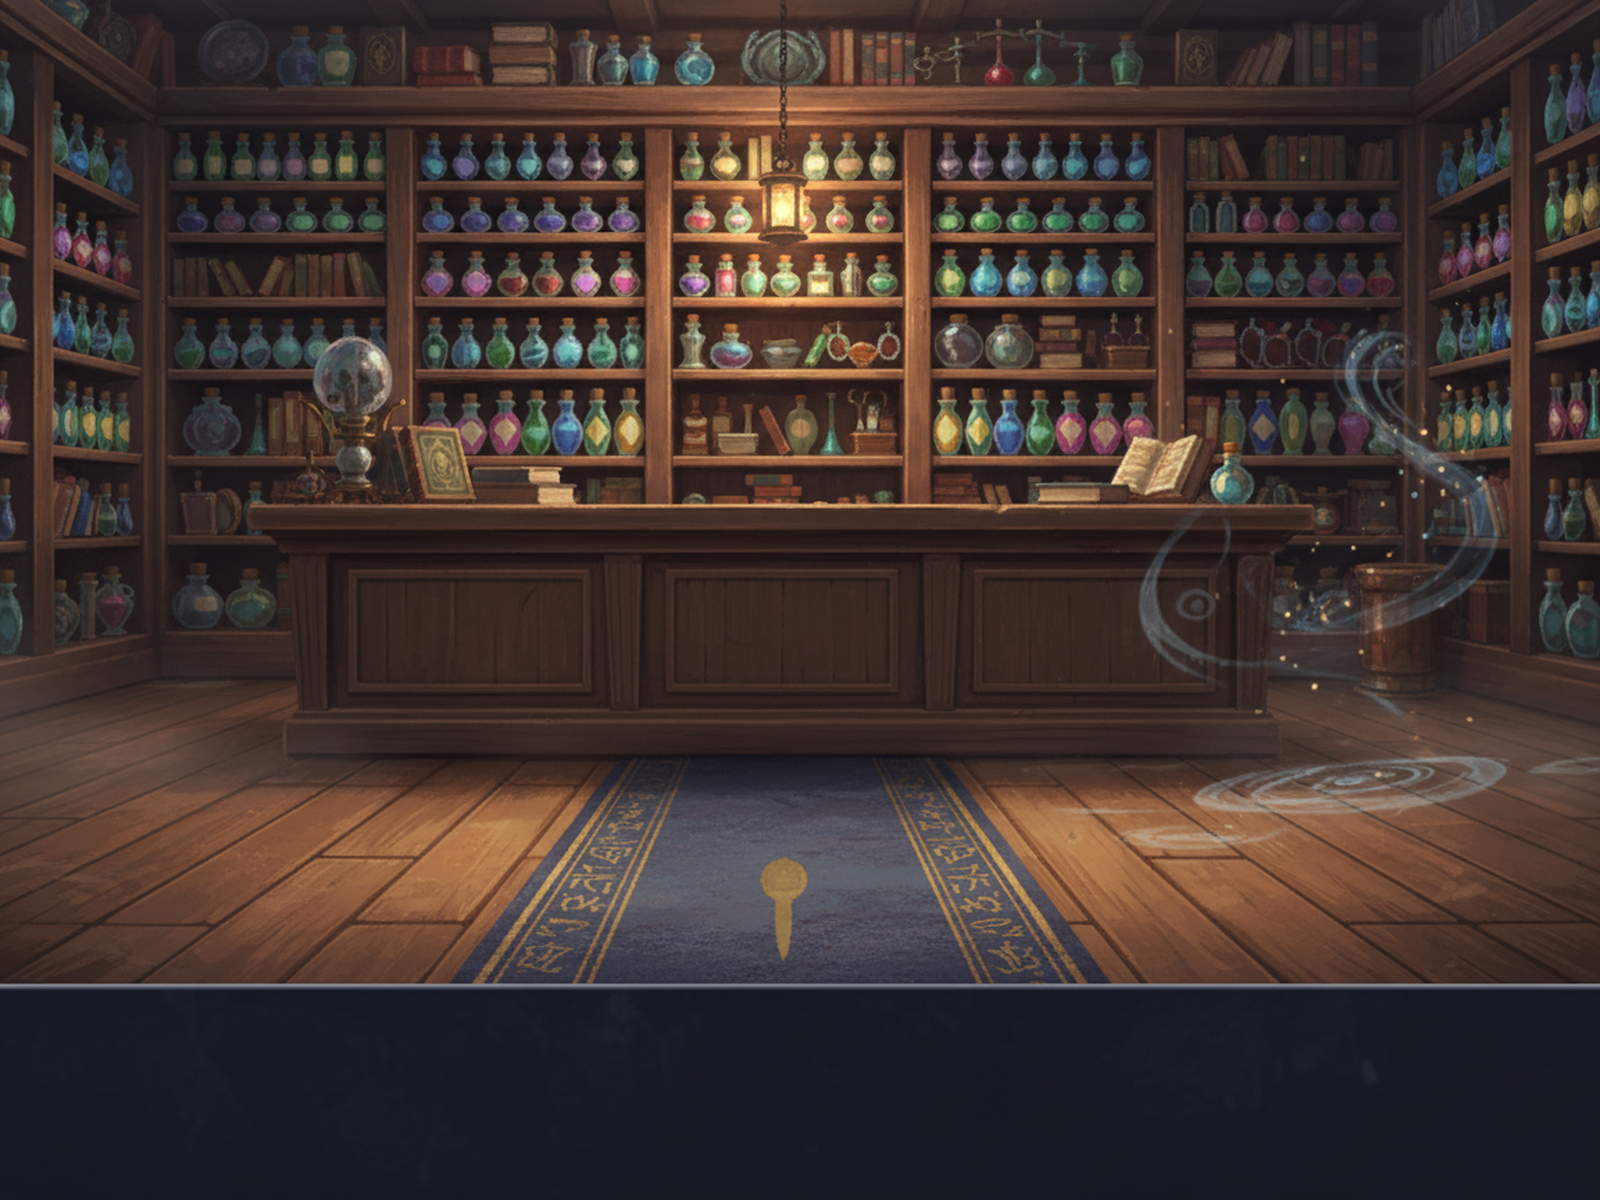
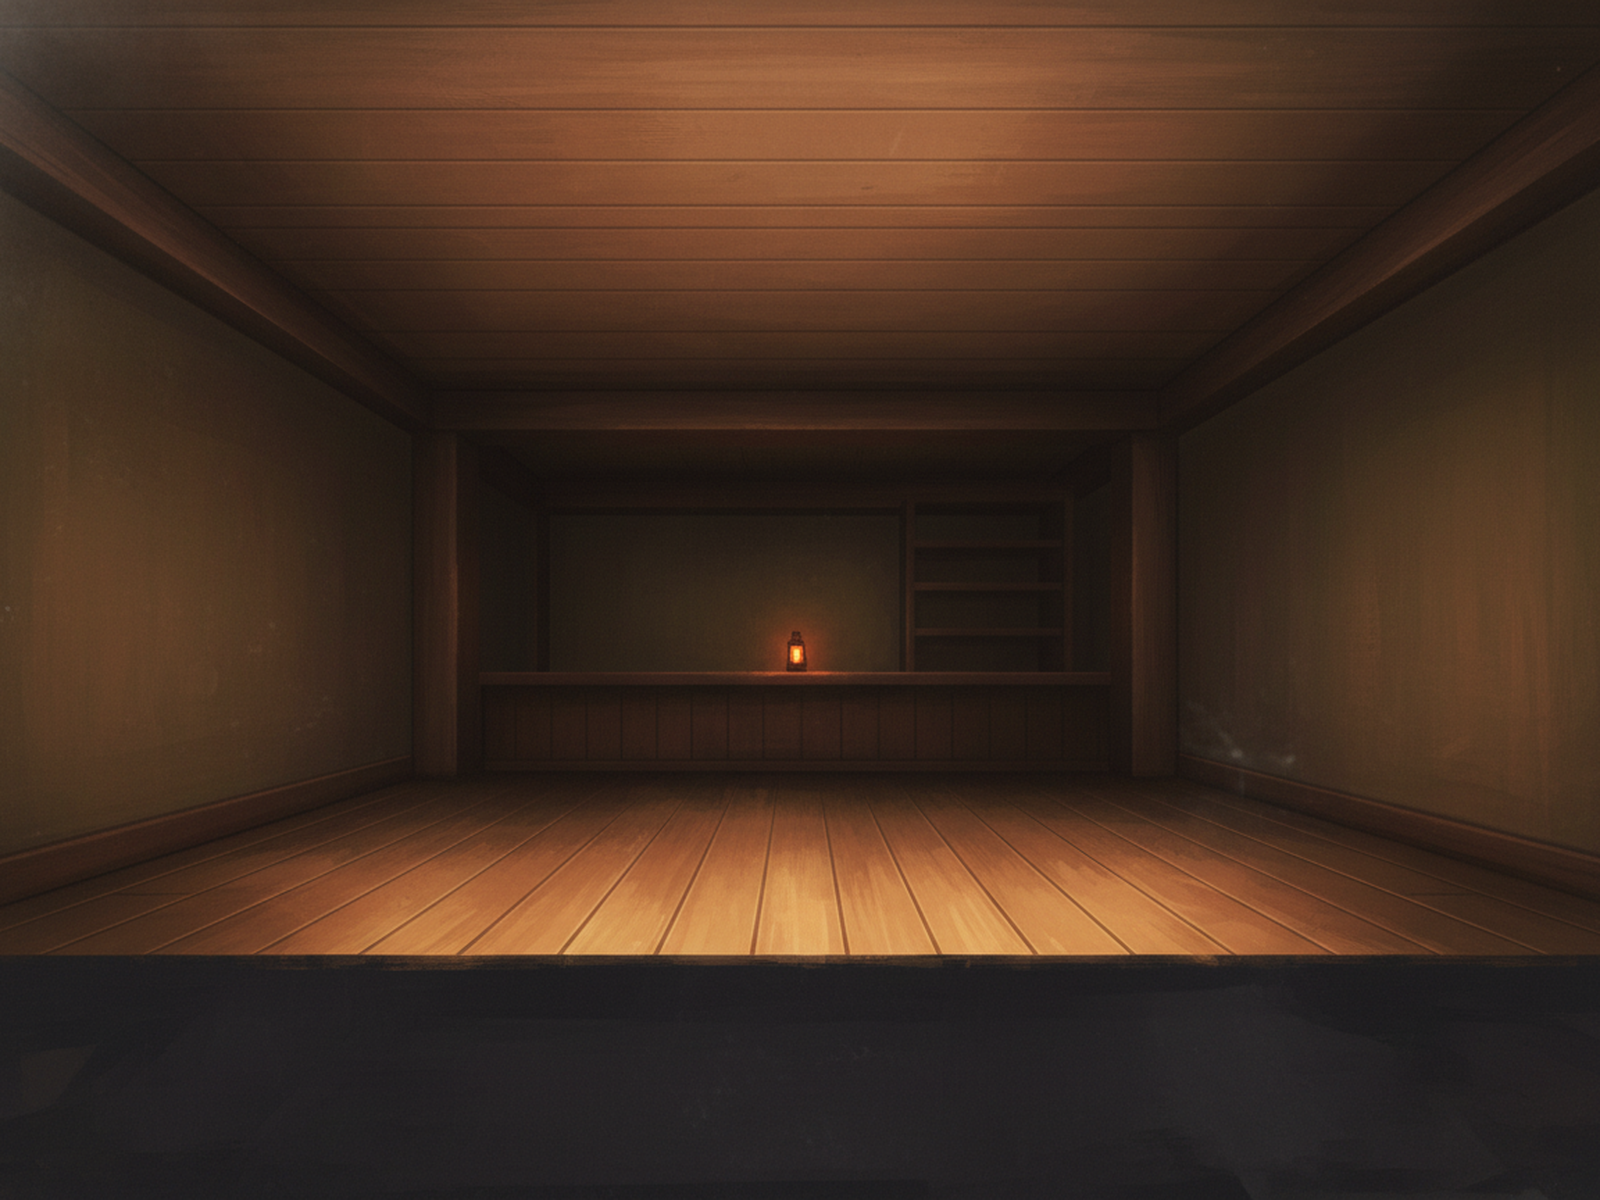
fix(bg): address Codex review — regen 3 contested variants + repeatability fixes
- Regenerate plains_1, forest_2, interior_3 with tighter prompts that
  forbid focal subjects in the combatant-zone band. Shelves (interior_3),
  sun/stump crown (forest_2), and oak silhouette crown (plains_1) are
  gone; combatants now composite cleanly.
- generate_battle_backgrounds.py auto-renders the layout template when
  it's missing (by shelling to make_layout_template.py). Previously a
  clean checkout would silently produce text-only generations because
  tmp/ is gitignored and the prompt claimed a reference was attached
  even when reference_png=None. Abort the motif if the template can't
  be created.
- make_layout_template.py prints a safe display path so
  `--out_path /tmp/...` no longer crashes with ValueError from
  path.relative_to(REPO_ROOT).

diff --git a/scripts/generate_battle_backgrounds.py b/scripts/generate_battle_backgrounds.py
@@ -123,10 +123,10 @@ STYLE_SUFFIX = (
 # entries = variant count. Index + 1 becomes the filename suffix.
 MOTIF_PROMPTS = {
     "plains": [
-        "Open grassland under a warm afternoon sky. Distant treeline and a "
-        "single small oak silhouette on the far horizon (y=320-470 band). "
-        "Foreground is a wide, empty grass clearing with no tall objects in "
-        "the left or right thirds. Upper sky has soft cumulus clouds.",
+        "Open grassland under a warm afternoon sky. The entire mid-band "
+        "(y=320-470) is an empty flat grass plain with no trees, no "
+        "buildings, no focal subject at all. Upper sky has soft cumulus "
+        "clouds. Left and right thirds are open grass and sky.",
         "Wildflower meadow at late spring dusk. A tiny distant windmill "
         "silhouette sits dead-center on the far horizon between where the "
         "combatants will stand. Left and right of the frame are empty gently "
@@ -142,10 +142,11 @@ MOTIF_PROMPTS = {
         "scattered leaves — with NO tree trunks rising into them. Upper half "
         "is pale sky with soft sun rays filtering through the distant canopy.",
         "Pine forest clearing at twilight under a full moon. Distant pine "
-        "silhouettes line the far horizon. The full moon sits dead-center in "
-        "the upper sky between the combatants. Foreground is open mossy "
-        "ground with bioluminescent hints low to the earth, no tall trunks "
-        "in the left or right thirds.",
+        "silhouettes as a LOW silhouette band at y=320-400 only — never "
+        "rising above y=320. The full moon sits in the upper sky high above "
+        "the combatant zones (y=0-80). Foreground (y=400-470) is open mossy "
+        "ground with bioluminescent hints. NO focal subject in the middle of "
+        "the frame — just open ground with a soft atmospheric glow.",
         "Mossy forest clearing at dawn. A warm god-ray beam comes down from "
         "the upper-center sky. Distant canopy silhouette forms a band along "
         "the far horizon. Foreground is a clear mossy forest floor; left "
@@ -239,11 +240,14 @@ MOTIF_PROMPTS = {
         "Left and right thirds are open wooden floor with low stools pushed "
         "against the far walls only. Upper area has rafters in shadow. "
         "No figures, no text.",
-        "Magic shop interior viewed down the center aisle. The shopkeeper's "
-        "counter sits dead-center on the far wall with shelves of potion "
-        "bottles behind it. Left and right thirds of the foreground are "
-        "open wooden floor with a narrow rug running down the center. No "
-        "shelves rising into the combatant zones. No shopkeeper visible.",
+        "Magic shop interior, LOW camera angle looking along the wooden "
+        "floor. A small distant counter silhouette with a tiny lantern "
+        "glow sits on the far wall (y=380-460). Upper half of the frame is "
+        "smooth dim ceiling timber with soft warm light — NO shelves, NO "
+        "potion bottles, NO stacked crates visible in the main frame. Any "
+        "shelving is pushed entirely below y=460, treated as distant "
+        "silhouette only. Left and right thirds are open wooden floor and "
+        "soft wall shadow. No shopkeeper, no figures.",
         "Modest stone-and-timber house interior viewed down the center "
         "aisle. A small hearth with glowing embers sits dead-center on the "
         "far wall, with a window above it catching soft daylight through "
@@ -370,9 +374,25 @@ LAYOUT_TEMPLATE_DIR = os.path.join(
 
 
 def layout_template_for(motif):
-    """Return path to the rendered composition template for this motif,
-    or None if not present. Generated by scripts/make_layout_template.py."""
+    """Return path to the composition template for this motif. Auto-renders
+    it under tmp/layout_templates/ if missing (the tmp/ tree is gitignored
+    so templates aren't committed — they're derived artifacts)."""
     path = os.path.join(LAYOUT_TEMPLATE_DIR, f"{motif}.png")
+    if os.path.exists(path):
+        return path
+    # Auto-generate by shelling to make_layout_template.py so this keeps
+    # working on a clean checkout without manual setup.
+    script = os.path.join(os.path.dirname(__file__), "make_layout_template.py")
+    try:
+        subprocess.run(
+            [sys.executable, script, motif, path],
+            check=True,
+            capture_output=True,
+            timeout=30,
+        )
+    except (subprocess.CalledProcessError, subprocess.TimeoutExpired) as e:
+        print(f"  ERROR auto-rendering layout template for {motif}: {e}")
+        return None
     return path if os.path.exists(path) else None
 
 
@@ -388,9 +408,10 @@ def generate_for_motif(motif, variant_count, force):
         print(f"  using composition reference {os.path.relpath(ref)}")
     else:
         print(
-            f"  WARNING: no composition template for {motif} — generate one "
-            f"via scripts/make_layout_template.py {motif}"
+            f"  ERROR: could not generate composition template for {motif}; "
+            f"aborting this motif (layout-aware output requires the template)"
         )
+        return 0
     for i in range(1, n + 1):
         out = os.path.join(BG_DIR, motif, f"{motif}_{i}.png")
         if os.path.exists(out) and not force:

diff --git a/scripts/make_layout_template.py b/scripts/make_layout_template.py
@@ -146,7 +146,11 @@ def main():
         else OUT_DIR / f"{motif}.png"
     )
     path = make_template(motif, out)
-    print(f"wrote {path.relative_to(REPO_ROOT)}")
+    try:
+        display = path.relative_to(REPO_ROOT)
+    except ValueError:
+        display = path
+    print(f"wrote {display}")
 
 
 if __name__ == "__main__":
